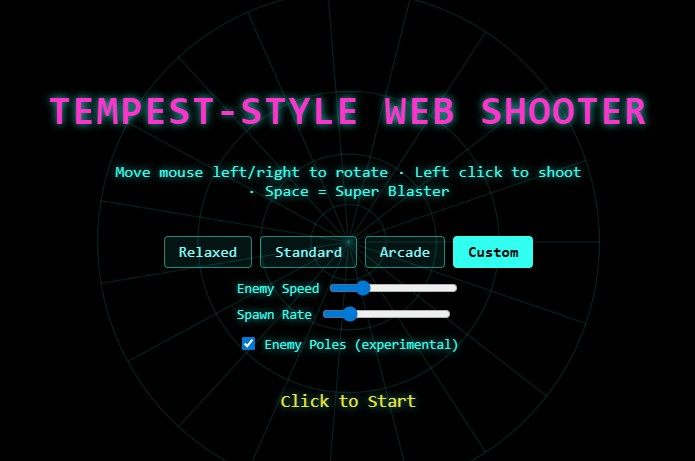
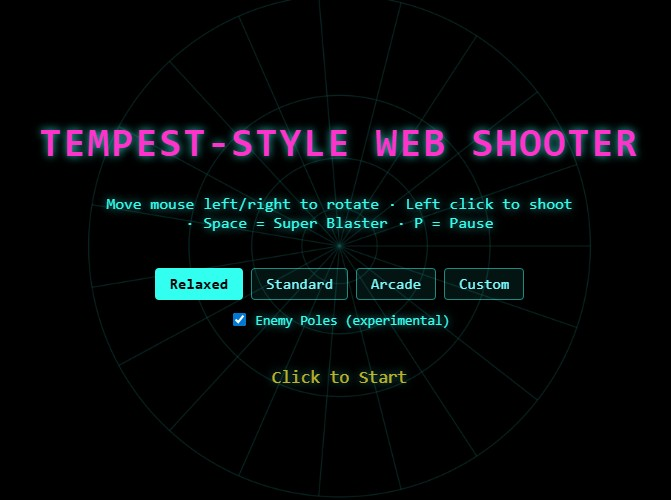
Added pause / resume

Changed region(s): [[0.0596, 0.1822, 0.9538, 0.6985], [0.3279, 0.7289, 0.6855, 0.7896], [0.3875, 0.8503, 0.5961, 0.9111]]

diff --git a/tempest-web/js/input.js b/tempest-web/js/input.js
@@ -6,6 +6,8 @@ let attachedTarget = null;
 let deltaXAccum = 0;
 let clickEdge = false;
 let spaceEdge = false;
+let pauseEdge = false;
+let resumeEdge = false;
 let mouseHeld = false;
 
 function handleMouseMove(e) {
@@ -29,6 +31,10 @@ function handleKeyDown(e) {
   if (e.code === 'Space' && !e.repeat) {
     spaceEdge = true;
     e.preventDefault();
+  } else if (e.code === 'KeyP' && !e.repeat) {
+    pauseEdge = true;
+  } else if (e.code === 'Escape' && !e.repeat) {
+    resumeEdge = true;
   }
 }
 
@@ -71,6 +77,18 @@ export function consumeClickEdge() {
 export function consumeSpaceEdge() {
   const value = spaceEdge;
   spaceEdge = false;
+  return value;
+}
+
+export function consumePauseEdge() {
+  const value = pauseEdge;
+  pauseEdge = false;
+  return value;
+}
+
+export function consumeResumeEdge() {
+  const value = resumeEdge;
+  resumeEdge = false;
   return value;
 }
 

diff --git a/tempest-web/js/main.js b/tempest-web/js/main.js
@@ -37,6 +37,8 @@ import {
   getDeltaX,
   consumeClickEdge,
   consumeSpaceEdge,
+  consumePauseEdge,
+  consumeResumeEdge,
   requestPointerLock,
   isFireHeld,
 } from './input.js';
@@ -162,6 +164,8 @@ function update(dt) {
   const deltaX = getDeltaX();
   const clicked = consumeClickEdge();
   const spacePressed = consumeSpaceEdge();
+  const pausePressed = consumePauseEdge();
+  const resumePressed = consumeResumeEdge();
 
   const state = getState();
 
@@ -175,6 +179,13 @@ function update(dt) {
   if (state === GameStates.GAME_OVER) {
     if (clicked) {
       startGame();
+    }
+    return;
+  }
+
+  if (state === GameStates.PAUSED) {
+    if (resumePressed) {
+      setState(GameStates.PLAYING);
     }
     return;
   }
@@ -196,6 +207,11 @@ function update(dt) {
   }
 
   if (state === GameStates.PLAYING) {
+    if (pausePressed) {
+      setState(GameStates.PAUSED);
+      return;
+    }
+
     updatePlayerMovement(player, deltaX);
     updatePlayerCooldown(player, dt);
     updatePlayerInvulnerability(player, dt);

diff --git a/tempest-web/index.html b/tempest-web/index.html
@@ -21,7 +21,7 @@
     <div id="titleOverlay" class="overlay">
       <h1>TEMPEST-STYLE WEB SHOOTER</h1>
       <p class="controls-hint">
-        Move mouse left/right to rotate &middot; Left click to shoot &middot; Space = Super Blaster
+        Move mouse left/right to rotate &middot; Left click to shoot &middot; Space = Super Blaster &middot; P = Pause
       </p>
 
       <div id="difficultyPanel" class="difficulty-panel">
@@ -65,6 +65,7 @@
 
     <div id="pauseOverlay" class="overlay hidden">
       <h1>PAUSED</h1>
+      <p class="start-hint">Press Esc to Resume</p>
     </div>
   </div>
 

diff --git a/README.md b/README.md
@@ -15,9 +15,10 @@ No install step, no Python, no build tooling required.
 - **Move:** Mouse left/right (rotates around the tube's rim, wraps at the ends)
 - **Shoot:** Hold left mouse button (fires repeatedly, capped by cooldown)
 - **Super Blaster:** Space bar (clears enemies, enemy projectiles, and poles; limited charges, refills each level)
+- **Pause:** P (freezes the game; Esc resumes)
 - **Click** on the title/game-over screen starts/restarts a run
 
-The game requests Pointer Lock on click so mouse rotation is unbounded (not clamped at your monitor's edge). Press Escape to release it; clicking the canvas again re-acquires it.
+The game requests Pointer Lock when playing so mouse rotation is unbounded (not clamped at your monitor's edge). Pressing Escape releases the pointer lock as a side effect of the browser exiting it (in addition to resuming from pause); click the canvas again to re-acquire it.
 
 ## Difficulty Profiles
 
@@ -58,7 +59,7 @@ A toggle on the title screen ("Enemy Poles"), **off by default**. When enabled, 
 
 ## Known Limitations
 
-- Pause (P/Escape) and mute (M) are stubbed but not wired to input — the game currently always runs unpaused, and `tempest-web/js/audio.js`'s sound hooks are silent no-ops (called at the right moments, ready for real sound assets).
+- Mute (M) is stubbed but not wired to input — `tempest-web/js/audio.js`'s sound hooks are silent no-ops (called at the right moments, ready for real sound assets).
 - Single tube shape (circle); the original game varies tube geometry per level.
 - No gamepad support.
 